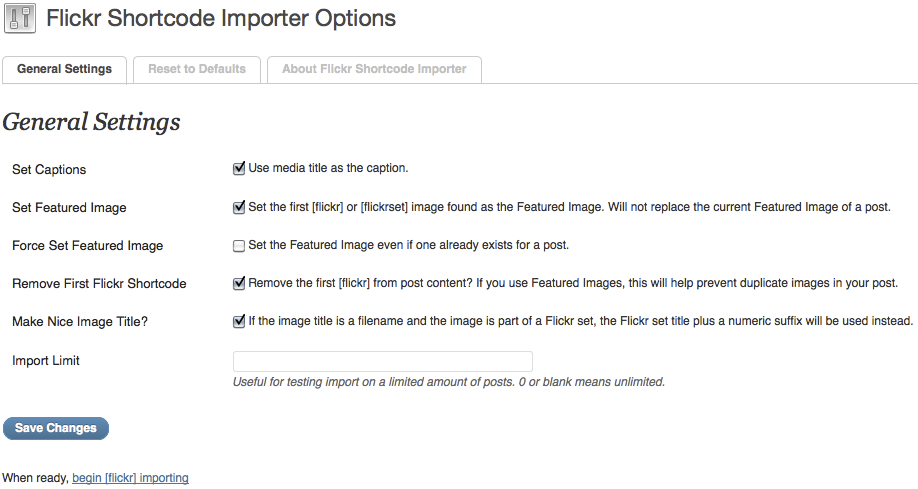
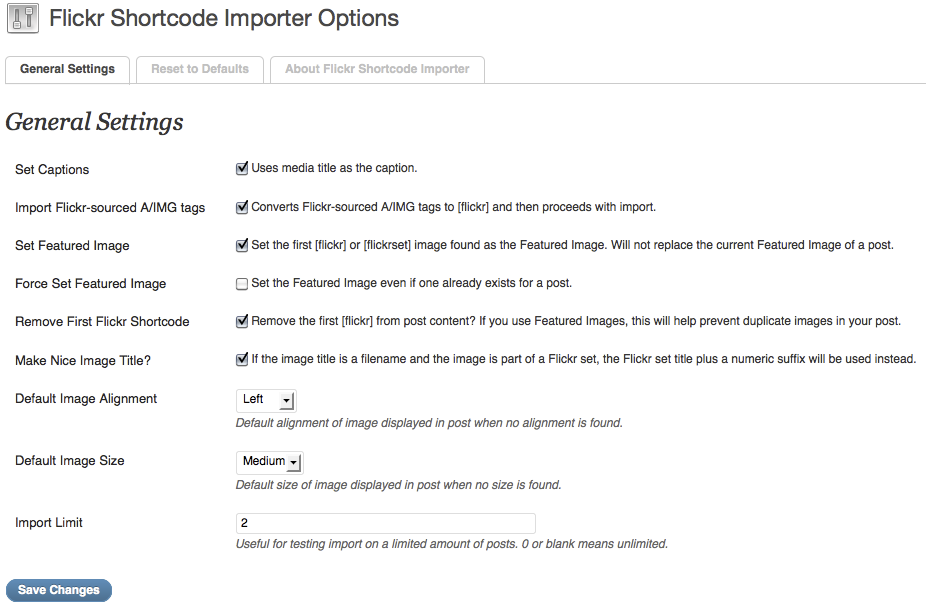
* Fix over zealous replacement of content for A/IMG tag to [flickr] conversion * Use cbMkReadableStr to pretty print media filenames as a title as needed
git-svn-id: https://plugins.svn.wordpress.org/flickr-shortcode-importer/trunk@423462 b8457f37-d9ea-0310-8a92-e5e31aec5664

diff --git a/flickr-shortcode-importer.php b/flickr-shortcode-importer.php
@@ -32,6 +32,9 @@ require_once( dirname(__FILE__) . '/class.options.php' );
 class Flickr_Shortcode_Importer {
 	var $menu_id;
 	var $in_flickset			= false;
+	// Peimic.com API key
+	var $api_key				= 'd7a73fed961744db01c498ca910a003d';
+	var $secret					= '7d8a757b8bc2b50b';
 
 	// Plugin initialization
 	function Flickr_Shortcode_Importer() {
@@ -99,7 +102,7 @@ class Flickr_Shortcode_Importer {
 <?php
 		// testing helper
 		if ( $_REQUEST['importflickrshortcode'] ) {
-			$this->ajax_process_shortcode();
+			$this->convert_flickr_sourced_tags();
 		}
 
 		// If the button was clicked
@@ -205,12 +208,15 @@ class Flickr_Shortcode_Importer {
 			foreach ( $matches_a as $html ) {
 				$html			= $a_tag_open . $html;
 
-				if ( ! preg_match( $find_flickr_a_tag, $html ) ) {
+				if ( ! preg_match( $find_flickr_a_tag, $html, $match ) ) {
 					continue;
 				}
 
+				// deal only with the A/IMG tag
+				$a_html			= $match[0];
+
 				// safer than home grown regex
-				if ( ! $doc->loadHTML( $html ) ) {
+				if ( ! $doc->loadHTML( $a_html ) ) {
 					continue;
 				}
 
@@ -244,7 +250,7 @@ class Flickr_Shortcode_Importer {
 				// [flickr id="5348222727" thumbnail="small" align="none"]
 				$replacement	= sprintf( $flickr_shortcode, $id, $size, $align );
 				// replace A/IMG with new [flickr]
-				$post_content	= str_replace( $html, $replacement, $post_content );
+				$post_content	= str_replace( $a_html, $replacement, $post_content );
 			}
 
 			$update				= array(
@@ -429,10 +435,7 @@ class Flickr_Shortcode_Importer {
 
 		header( 'Content-type: application/json' );
 
-		// Peimic.com API key
-		$api_key				= 'd7a73fed961744db01c498ca910a003d';
-		$secret					= '7d8a757b8bc2b50b';
-		$this->flickr			= new phpFlickr($api_key, $secret);
+		$this->flickr			= new phpFlickr($this->api_key, $this->secret);
 
 		// only use our shortcode handlers to prevent messing up post content 
 		remove_all_shortcodes();
@@ -661,13 +664,17 @@ class Flickr_Shortcode_Importer {
 
 		$set_title			= isset( $photo['set_title'] ) ? $photo['set_title'] : '';
 		$title				= $photo['title'];
-		// if title is a filename, use set_title - menu order instead
-		// TODO handle camelCase and underscores as well
-		if ( fsi_options( 'make_nice_image_title' )
-			&& preg_match( '#\.[a-zA-Z]{3}$#', $title )
-			&& ! empty( $set_title ) ) {
-			$title			= $set_title . '-' . $this->menu_order;
+
+		if ( fsi_options( 'make_nice_image_title' ) ) {
+			// if title is a filename, use set_title - menu order instead
+			if ( preg_match( '#\.[a-zA-Z]{3}$#', $title )
+				&& ! empty( $set_title ) ) {
+				$title			= $set_title . '-' . $this->menu_order;
+			} elseif ( ! preg_match( '#\s#', $title ) ) {
+				$title		= $this->cbMkReadableStr();
+			}
 		}
+
 		$alt				= $title;
 		$caption			= fsi_options( 'set_caption' ) ? $title : '';
 		$desc				= $photo['description'];
@@ -741,6 +748,59 @@ class Flickr_Shortcode_Importer {
 	// Helper function to escape quotes in strings for use in Javascript
 	function esc_quotes( $string ) {
 		return str_replace( '"', '\"', $string );
+	}
+
+
+	/**
+	 * Returns string of a filename or string converted to a spaced extension
+	 * less header type string.
+	 *
+	 * @author Michael Cannon <michael@peimic.com>
+	 * @param string filename or arbitrary text
+	 * @return mixed string/boolean
+	 */
+	function cbMkReadableStr($str) {
+		if ( is_string($str) )
+		{
+			$clean_str = htmlspecialchars($str);
+
+			// remove file extension
+			$clean_str = preg_replace('/\.[[:alnum:]]+$/i', '', $clean_str);
+
+			// remove funky characters
+			$clean_str = preg_replace('/[^[:print:]]/', '_', $clean_str);
+
+			// Convert camelcase to underscore
+			$clean_str = preg_replace('/([[:alpha:]][a-z]+)/', "$1_", $clean_str);
+
+			// try to cactch N.N or the like
+			$clean_str = preg_replace('/([[:digit:]\.\-]+)/', "$1_", $clean_str);
+
+			// change underscore or underscore-hyphen to become space
+			$clean_str = preg_replace('/(_-|_)/', ' ', $clean_str);
+
+			// remove extra spaces
+			$clean_str = preg_replace('/ +/', ' ', $clean_str);
+
+			// convert stand alone s to 's
+			$clean_str = preg_replace('/ s /', "'s ", $clean_str);
+
+			// remove beg/end spaces
+			$clean_str = trim($clean_str);
+
+			// capitalize
+			$clean_str = ucwords($clean_str);
+
+			// restore previous entities facing &amp; issues
+			$clean_str = preg_replace( '/(&amp ;)([a-z0-9]+) ;/i'
+				, '&\2;'
+				, $clean_str
+			);
+
+			return $clean_str;
+		}
+
+		return false;
 	}
 }
 
